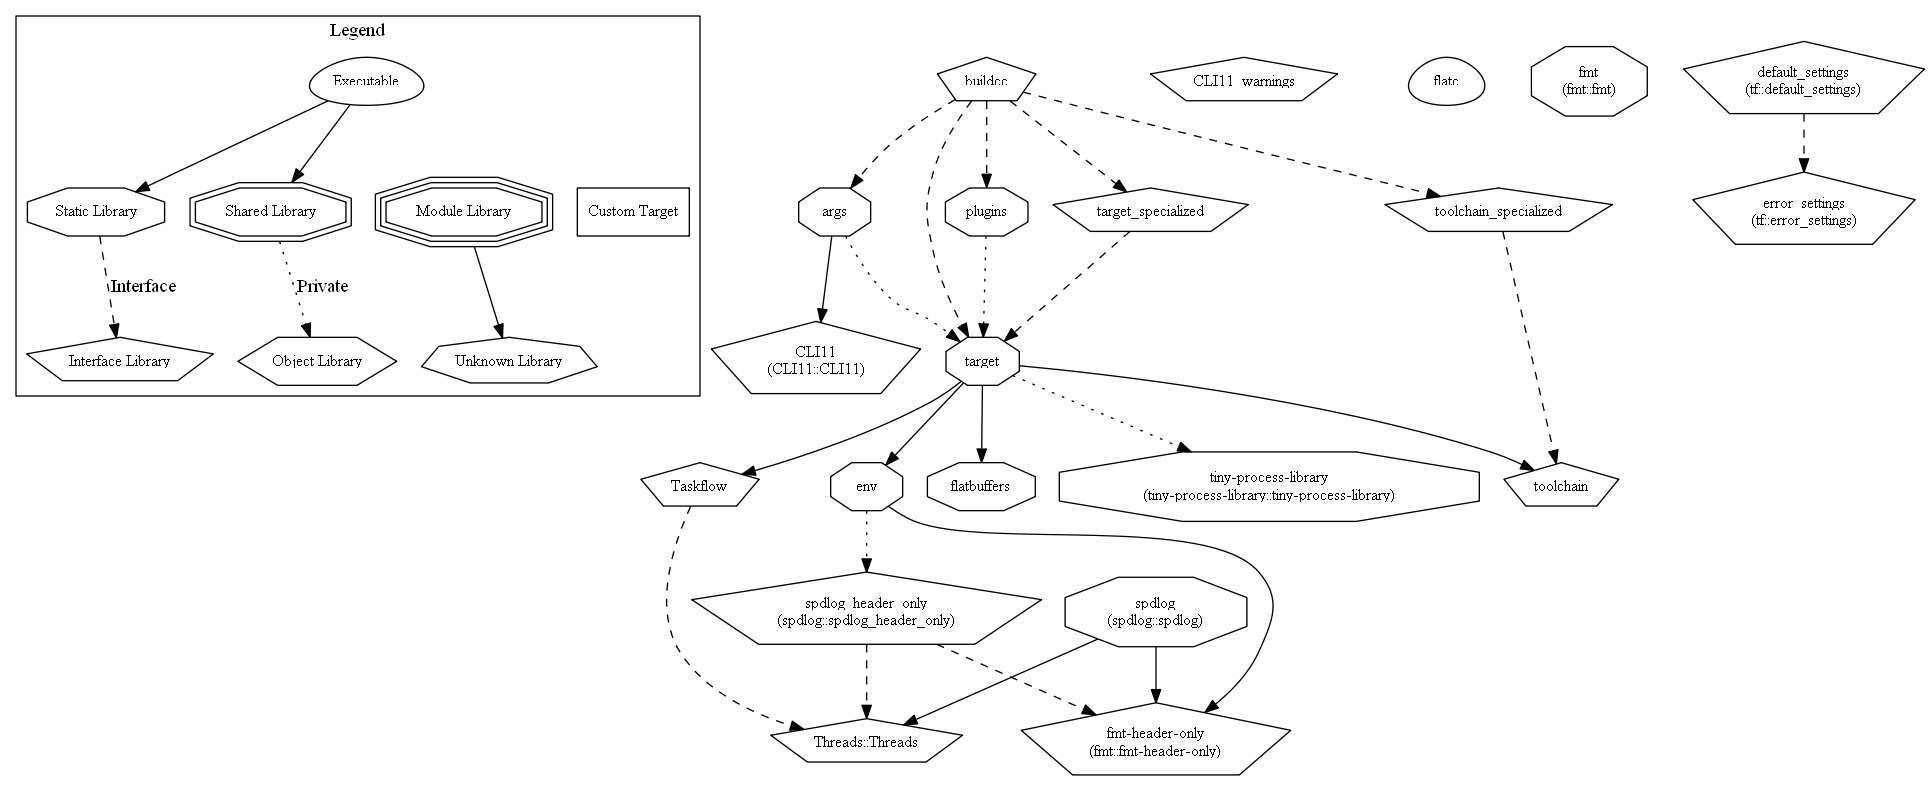
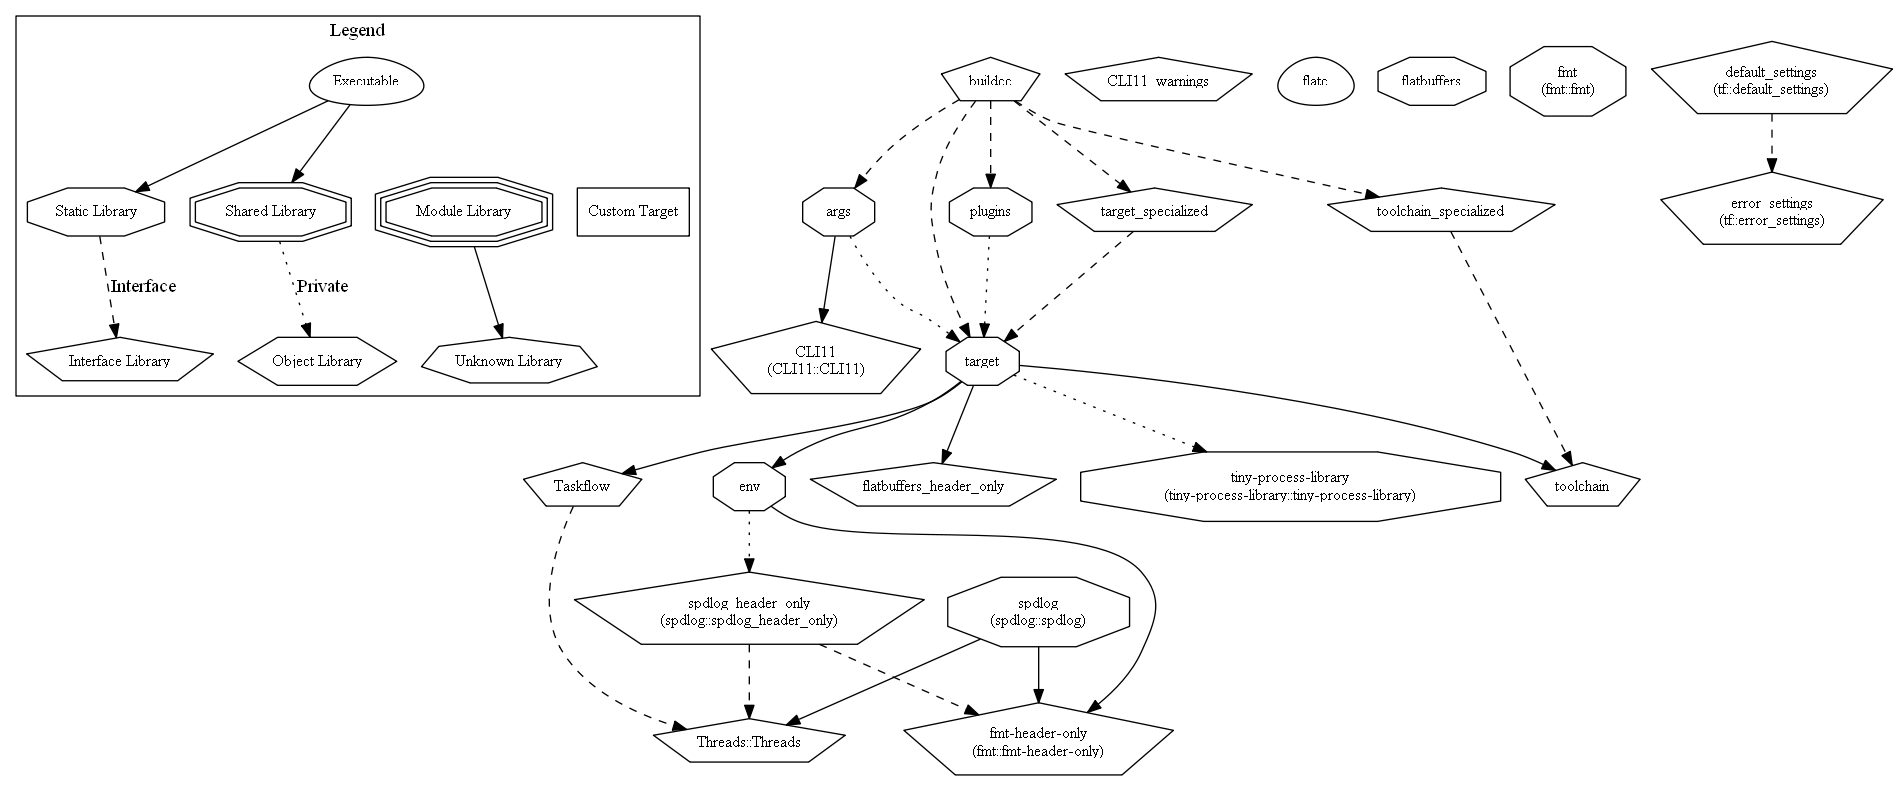
Flatbuffers header only (#81)
- Removed dependency on libflatbuffers and converted to header only interface

diff --git a/buildcc/plugins/src/clang_compile_commands.cpp b/buildcc/plugins/src/clang_compile_commands.cpp
@@ -22,8 +22,8 @@
 #include "env/assert_fatal.h"
 #include "env/util.h"
 
-// flatbuffers
-#include "flatbuffers/flexbuffers.h"
+// third party
+#include "fmt/format.h"
 
 namespace buildcc::plugin {
 
@@ -44,38 +44,42 @@ void ClangCompileCommands::Generate() {
   }
   env::log_trace("ClangCompileCommands", "Generate -> true");
 
-  // DONE, Create custom flexbuffer binary compile_commands interface
-  flexbuffers::Builder fbb;
-  size_t start = fbb.StartVector();
+  // clang-format off
+  constexpr const char *const clang_compile_command_format = 
+R"({{
+    "directory": "{directory}",
+    "command": "{command}",
+    "file": "{file}"
+  }})";
+ //clang-format on
+
+  std::vector<std::string> compile_command_list;
 
   for (const auto *t : targets_) {
     const auto &source_files = t->GetCurrentSourceFiles();
-
     for (const auto &f : source_files) {
       // DONE, Get source list name
       // DONE, Get std::vector<std::string> CompileCommand
       // DONE, Get intermediate directory from env
-      const auto &input_file = f.GetPathname();
-      const auto command = t->CompileCommand(input_file);
-      const auto &directory = env::get_project_build_dir();
+      std::string file = f.GetPathname().string();
+      std::string command = t->CompileCommand(file);
+      std::string directory = env::get_project_build_dir().string();
 
-      // DONE, Use flatbuffers::Flexbuffer to create binary format
-      fbb.Map([&]() {
-        fbb.String("directory", directory.string());
-        fbb.String("command", command);
-        fbb.String("file", input_file.string());
-      });
+      std::replace(file.begin(), file.end(), '\\', '/');
+      std::replace(command.begin(), command.end(), '\\', '/');
+      std::replace(directory.begin(), directory.end(), '\\', '/');
+
+      std::string temp = fmt::format(
+          clang_compile_command_format, fmt::arg("directory", directory),
+          fmt::arg("command", command), fmt::arg("file", file));
+      compile_command_list.push_back(temp);
     }
   }
 
-  fbb.EndVector(start, false, false);
-  fbb.Finish();
+  std::string compile_commands = fmt::format("[\n{}\n]", fmt::join(compile_command_list, ",\n"));
 
   // DONE, Convert to json
-  std::string compile_commands;
-  flexbuffers::GetRoot(fbb.GetBuffer()).ToString(true, true, compile_commands);
-
-  // DONE, Save file using the flatbuffers::SaveFile utility function
+  // DONE, Save file
   std::filesystem::path file =
       std::filesystem::path(buildcc::env::get_project_build_dir()) /
       "compile_commands.json";
